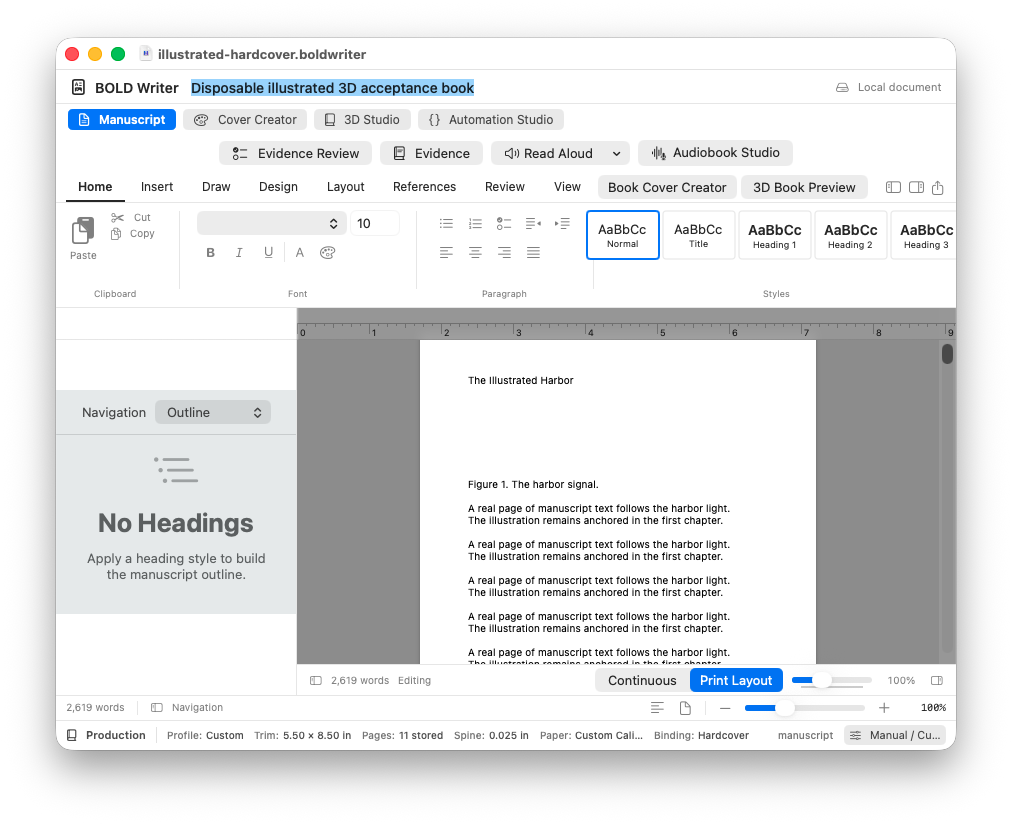
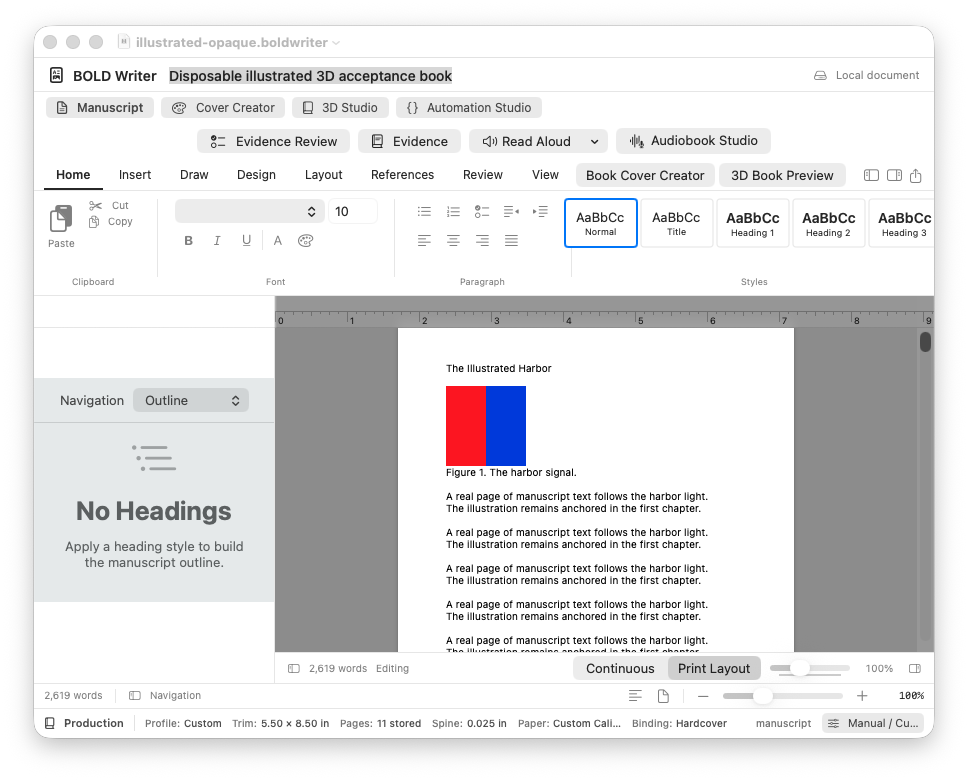
docs: show visible synthetic artwork and bound 3D claim

Changed region(s): [[0.031, 0.0308, 0.9917, 0.9538], [0.4959, 0.2769, 0.5269, 0.3077], [0.093, 0.3385, 0.124, 0.3692]]

diff --git a/Docs/OpenSourceStatus.md b/Docs/OpenSourceStatus.md
@@ -13,7 +13,7 @@ This is a capability and acceptance record, not a release-readiness claim. The p
 
 The integrated source passes focused DOCX image (27), floating-image layout (39), and cover multi-layer (5), linking (23), and transform-lock (8) tests. The authoritative native Xcode Release build and the SwiftPM Release build passed at `9c5aba1`; an earlier SwiftPM attempt was interrupted because source changed during compilation and is not counted as a product failure. The complete monolithic test suite was not rerun because an earlier run reached excessive memory use. These figures are not a complete application test count.
 
-On 2026-11-07, an isolated native Xcode Release build of public commit `a7a9380` succeeded. A separately signed QA copy with a distinct bundle ID opened a disposable illustrated `.boldwriter` package. In the actual GUI, the manuscript editor and four cover layers appeared; 3D Studio displayed the closed synthetic hardcover, opened it to manuscript page 1, and advanced to the next spread (pages 2–3). Window captures are in `site/assets/app-*.png`. Process RSS increased from about 203 MB after opening to 489 MB after opening the 3D book, and about 554 MB during the cover inspection. That short, mixed-workspace sample does not establish a leak or long-book stability.
+On 2026-11-07, an isolated native Xcode Release build of public commit `a7a9380` succeeded. A separately signed QA copy with a distinct bundle ID opened a disposable `.boldwriter` package. In the actual GUI, the manuscript editor and four cover layers appeared; 3D Studio displayed the closed synthetic hardcover, opened it to manuscript page 1, and advanced to the next spread (pages 2–3). The original fixture's interior attachment proved to be fully transparent, so that 3D pass does not establish illustration fidelity. A second disposable copy with opaque synthetic artwork showed the image in the manuscript editor. Window captures are in `site/assets/app-*.png`. Process RSS increased from about 203 MB after opening to 489 MB after opening the 3D book, and about 554 MB during the cover inspection. That short, mixed-workspace sample does not establish a leak or long-book stability.
 
 The installed app was left untouched because it was running and its unsaved state could not be established. This isolated QA pass does not establish installed-app acceptance, native save/reopen, DOCX/PDF round trips, cover editing persistence, orbit/zoom, backward page turns, or repeated-open memory behavior. Those gates remain open.
 

diff --git a/site/assets/README.md b/site/assets/README.md
@@ -3,6 +3,6 @@
 - `wordmark.svg`, `favicon.svg`, and `social-preview.svg` are original BOLD Writer brand graphics created for this project. `social-preview.png` is the 1280 × 640 raster rendering of the SVG.
[1 lines of base64/hex data omitted]
 
-- `app-*.png` are unaltered window captures of the running macOS Release build from public source commit `a7a9380` with a disposable synthetic book. The QA build used a distinct bundle ID so the user's installed app remained untouched. These images demonstrate only the visible interactions described in the README; they do not establish full installed-app acceptance.
+- `app-*.png` are unaltered window captures of the running macOS Release build from public source commit `a7a9380` with disposable synthetic book fixtures. The editor image uses an opaque red and blue inline attachment; the earlier 3D captures used a fixture with a transparent interior attachment. The QA build used a distinct bundle ID so the user's installed app remained untouched. These images demonstrate only the visible interactions described in the README; they do not establish 3D illustration fidelity or full installed-app acceptance.
 
 No production manuscript or third-party photograph is represented in these assets. The synthetic fixture and screenshots contain no personal manuscript content.

diff --git a/README.md b/README.md
@@ -35,7 +35,7 @@ The [development status](Docs/OpenSourceStatus.md) separates implemented behavio
 
 ### Inside the running app
 
-These are genuine window captures from an isolated macOS Release build of public source commit `a7a9380`, using a disposable synthetic book. They show a successful document open, Cover Creator, and the 3D Studio before and after opening the book and advancing one spread. They do not establish full installed-app acceptance, DOCX round-trip fidelity, or long-book memory stability.
+These are genuine window captures from an isolated macOS Release build of public source commit `a7a9380`, using disposable synthetic book fixtures. The editor capture uses an opaque red and blue inline test image; the 3D captures use the earlier fixture, whose interior image attachment was transparent. They show a successful document open, Cover Creator, and the 3D Studio before and after opening the book and advancing one spread. They do not establish 3D illustration fidelity, full installed-app acceptance, DOCX round-trip fidelity, or long-book memory stability.
 
 | Manuscript editor | Editable cover layers |
 | --- | --- |
